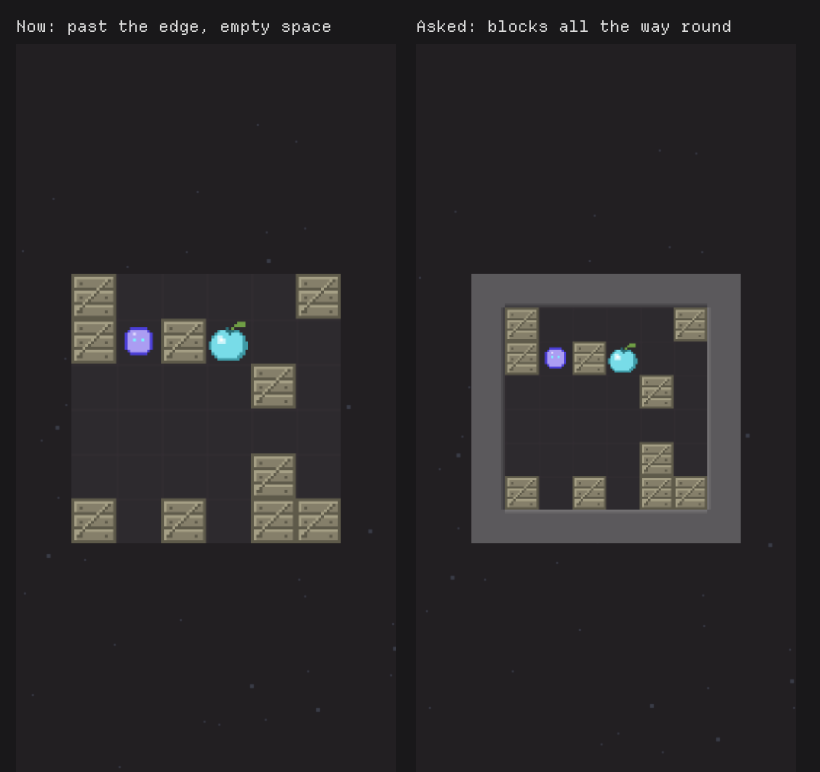
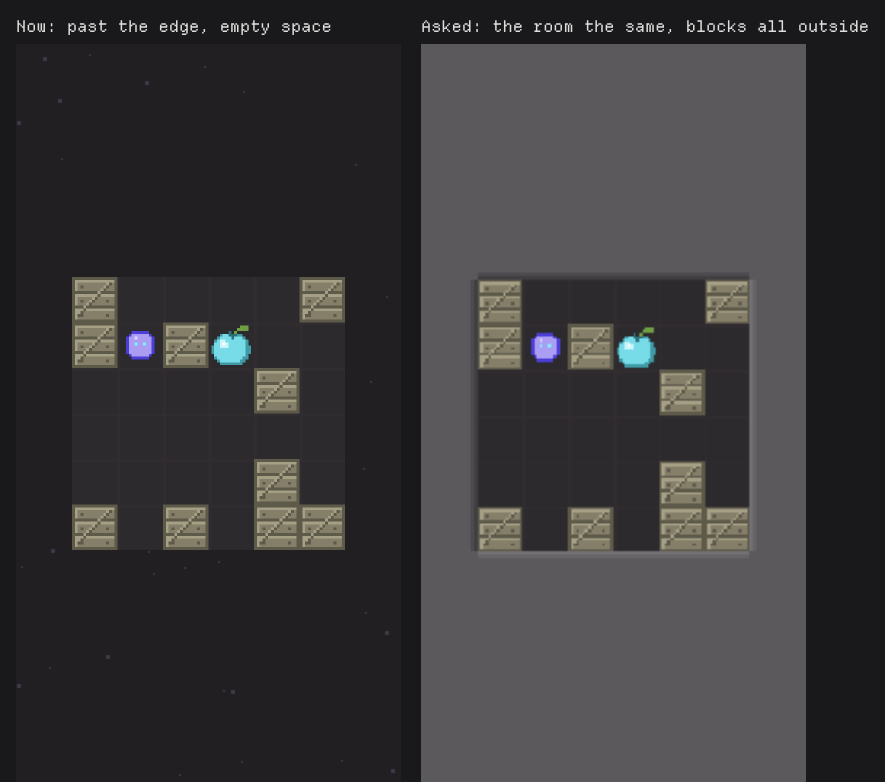
Register 672: sketch redone, the room unchanged and blocks outside it
Claude-Session: https://claude.ai/code/session_01S5VoDDtzPCPy9uyvxAQGvD

diff --git a/docs/REGISTER.md b/docs/REGISTER.md
@@ -678,4 +678,4 @@ outcome: **done** (commit), **declined** (why), or **moved** (where).
 | 669 | "If I click on levels while on tutorial, I want for the tutorial to be dismissed and not reopen. If I leave it too, do not reopen it" | **registered (2026-11-03).** Opening Levels during the tutorial, or leaving it any other way, ends it for good: it does not come back on its own. **Done (2026-11-03):** Levels was swallowed by the tutorial's strict mode. It now always answers, ends the tutorial, and Campaign opens the list after; leaving any other way already kept it from reopening (the room's save records it), now gated. Gate: tutorial. |
 | 670 | "Level 2, new main objective: all switches start on. So the mechanism is explained. And the side quest where switches are flipped: ALL are flipped 2x." | **registered (2026-11-03).** Campaign Level 2 gains a main goal: every switch starts on, which teaches 668's on switch. Its side goal about flipping switches becomes: every switch is flipped at least twice. Needs 655/668 first; re-measure Level 2 after. |
 | 671 | "Due to switches being started already off, some levels could require less movements than what we have tracker, or less pieces, or smaller area. So include an overall check after implementation" | **registered (2026-11-03).** After 655/668 land, re-measure every campaign level and puzzle: a switch placed already on may give fewer moves, fewer pieces or a smaller room than the numbers on record. Report every level whose numbers move before changing any. |
-| 672 | "I think it's more intuitive if the out of bounds area of a level is all walls. Tell me if you get it when I say it. So you can always collide. Sketch it so I can see if you got it right!" | **registered (2026-11-03), sketch sent.** The rule is already that the room's edge stops the blob; what changes is the drawing: past the edge, the room is ringed with blocks, so a slide always ends against something you can see. Sketch: `docs/feedback/672-walls-outside.png`. |
+| 672 | "I think it's more intuitive if the out of bounds area of a level is all walls. Tell me if you get it when I say it. So you can always collide. Sketch it so I can see if you got it right!" | **registered (2026-11-03), sketch sent.** The rule is already that the room's edge stops the blob; what changes is the drawing: the whole area outside the room is blocks, joined as walls are, while the room keeps its size and every tile; a slide always ends against something you can see. The first sketch shrank the room inside a ring and read as blocks taking puzzle space; the owner corrected it ("walls on the outskirts, not occupying inner puzzle space") and the sketch was redone. Sketch: `docs/feedback/672-walls-outside.png`. |
